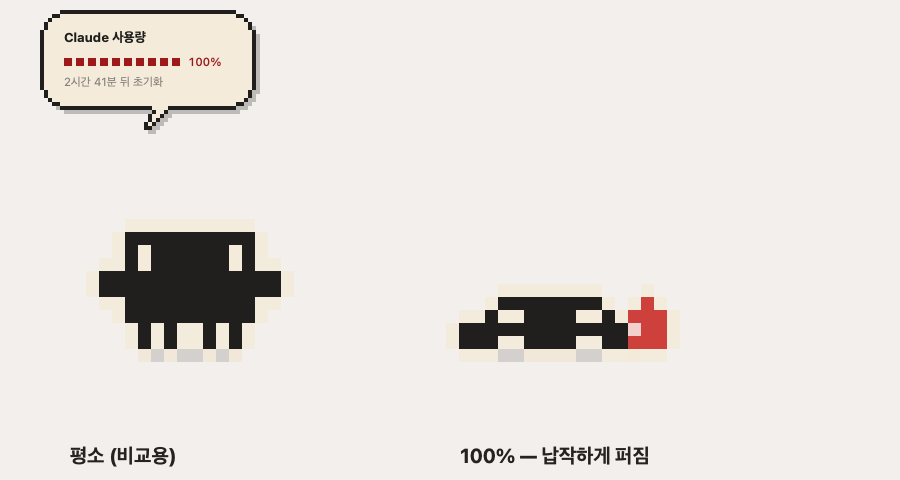
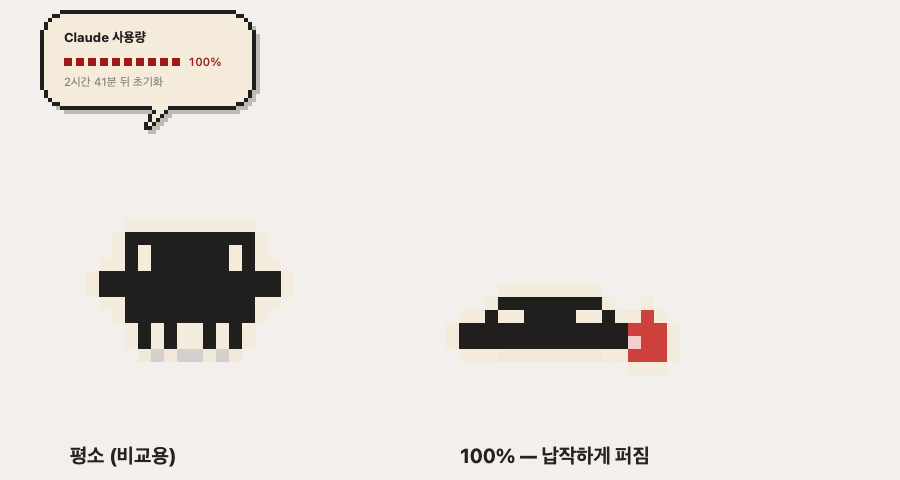
100% 도안의 아랫면을 이어 붙이고 숨쉬기 추가
바닥에 닿는 두 줄을 빈칸 없이 채웠다. 숨쉬기는 아랫면을 고정한 채 등만
한 칸 부풀렸다 꺼지게 했다. 몸 전체를 위아래로 움직이면 제자리뛰기처럼,
옆으로 늘였다 줄이면 살이 쪘다 빠지는 것처럼 보였기 때문이다.

표정을 고정해 확인하는 --demo 옵션도 추가했다.

Changed region(s): [[0.6222, 0.625, 0.7467, 0.7812], [0.5289, 0.6875, 0.5911, 0.75]]

diff --git a/buddy/sprite.py b/buddy/sprite.py
@@ -35,10 +35,10 @@ _BASE = [
 ]
 _LEGS_STAND = ["   # #  # #   ", "   # #  # #   "]
 
-# 다 써 버렸을 때. 바닥에 눌린 듯 납작하게 퍼지고 다리는 양옆으로 뻗는다.
+# 다 써 버렸을 때. 바닥에 눌린 듯 납작하게 퍼진다.
 # 머리와 눈, 팔 위치는 서 있을 때 그대로 두어야 같은 녀석으로 보인다.
 # 높이는 9줄로 맞춰야 바닥선이 어긋나지 않는다.
-_LYING = [
+_LYING_OUT = [          # 날숨
     "              ",
     "              ",
     "              ",
@@ -47,7 +47,18 @@ _LYING = [
     "   ########   ",
     "  #oo####oo#  ",
     "##############",
-    "###  ####  ###",
+    "##############",
+]
+_LYING_IN = [           # 들숨 — 바닥은 그대로 두고 등만 한 칸 부푼다
+    "              ",
+    "              ",
+    "              ",
+    "              ",
+    "   ########   ",
+    "   ########   ",
+    "  #oo####oo#  ",
+    "##############",
+    "##############",
 ]
 
 
@@ -114,9 +125,10 @@ def cell_size(size: float) -> int:
 def frame_rows(st: MascotState) -> list[str]:
     """현재 상태에 맞는 도안 한 장을 만든다."""
     if st.mood == "exhausted":
-        # 완전히 뻗은 상태. 몸을 움직이면 (위아래로든 옆으로든) 지쳐 있는
-        # 게 아니라 뛰거나 부풀었다 꺼지는 것처럼 보인다. 땀방울만 떨어진다.
-        return list(_LYING)
+        # 숨을 쉴 때 바닥에 닿은 아랫면은 그대로 두고 등만 한 칸 부푼다.
+        # 몸 전체를 위아래로 움직이면 제자리뛰기처럼, 옆으로 늘였다 줄이면
+        # 살이 쪘다 빠지는 것처럼 보인다.
+        return list(_LYING_IN if st.step_phase else _LYING_OUT)
 
     rows = list(_BASE)
 
@@ -309,9 +321,9 @@ def _draw_zzz(origin_x: int, origin_y: int, cell: int, grid_h: int, st: MascotSt
 def step(st: MascotState, t: float) -> None:
     """시간 t(초)에 맞춰 애니메이션 값을 갱신한다. 전부 칸 단위로만 움직인다."""
     if st.mood == "exhausted":
-        # 몸은 미동도 없다. 떨어지는 땀방울만 움직인다.
+        # 느리고 가쁜 숨. 몸이 바닥에서 뜨지 않도록 bob 은 쓰지 않는다.
         st.bob = 0
-        st.step_phase = 0
+        st.step_phase = int(t * 0.6) % 2
         st.jitter = 0
         st.zzz = (t * 0.7) % 1.0
         return

diff --git a/buddy/app.py b/buddy/app.py
@@ -125,6 +125,7 @@ class BuddyController(NSObject):
 
         self.cfg = config.load()
         config.ensure_file()
+        self.force_mood = None   # --demo 로 지정한 표정. 실제 사용량을 덮어쓴다.
         self.state = sprite.MascotState()
         self.notifier = Notifier(self.cfg)
 
@@ -263,7 +264,7 @@ class BuddyController(NSObject):
         if pending is None:
             return
         self.snapshot = pending
-        self.state.mood = pending.mood
+        self.state.mood = self.force_mood or pending.mood
         self.notifier.update(pending)
         if self.bubble_window.isVisible():
             self._render_bubble()
@@ -598,11 +599,14 @@ class BuddyController(NSObject):
         NSApp().terminate_(self)
 
 
-def run() -> None:
+def run(force_mood: str | None = None) -> None:
     app = NSApplication.sharedApplication()
     app.setActivationPolicy_(NSApplicationActivationPolicyAccessory)
 
     controller = BuddyController.alloc().init()
+    if force_mood:
+        controller.force_mood = force_mood
+        controller.state.mood = force_mood
     timer = NSTimer.scheduledTimerWithTimeInterval_target_selector_userInfo_repeats_(
         FRAME_INTERVAL, controller, "tick:", None, True
     )

diff --git a/buddy/__main__.py b/buddy/__main__.py
@@ -5,6 +5,9 @@
     python -m buddy --json       JSON 으로 출력 (다른 도구에 연결할 때)
     python -m buddy --calibrate 90
                                  Claude Code 가 알려주는 실제 퍼센트에 눈금 맞추기
+    python -m buddy --demo exhausted
+                                 표정을 고정해서 확인 (happy busy worried panic
+                                 exhausted sleepy). 사용량과 무관하게 그 모습으로 뜬다.
     python -m buddy --install-agent / --uninstall-agent
 """
 
@@ -55,6 +58,16 @@ def main(argv: list[str] | None = None) -> int:
         print(__doc__)
         return 0
 
+    if flag == "--demo":
+        moods = ["happy", "busy", "worried", "panic", "exhausted", "sleepy"]
+        if len(args) < 2 or args[1] not in moods:
+            print("사용법: python -m buddy --demo <표정>")
+            print("  " + " | ".join(moods))
+            return 1
+        demo_mood = args[1]
+    else:
+        demo_mood = None
+
     from . import single
 
     if not single.acquire():
@@ -65,7 +78,7 @@ def main(argv: list[str] | None = None) -> int:
 
     from .app import run
 
-    run()
+    run(demo_mood)
     return 0
 
 
